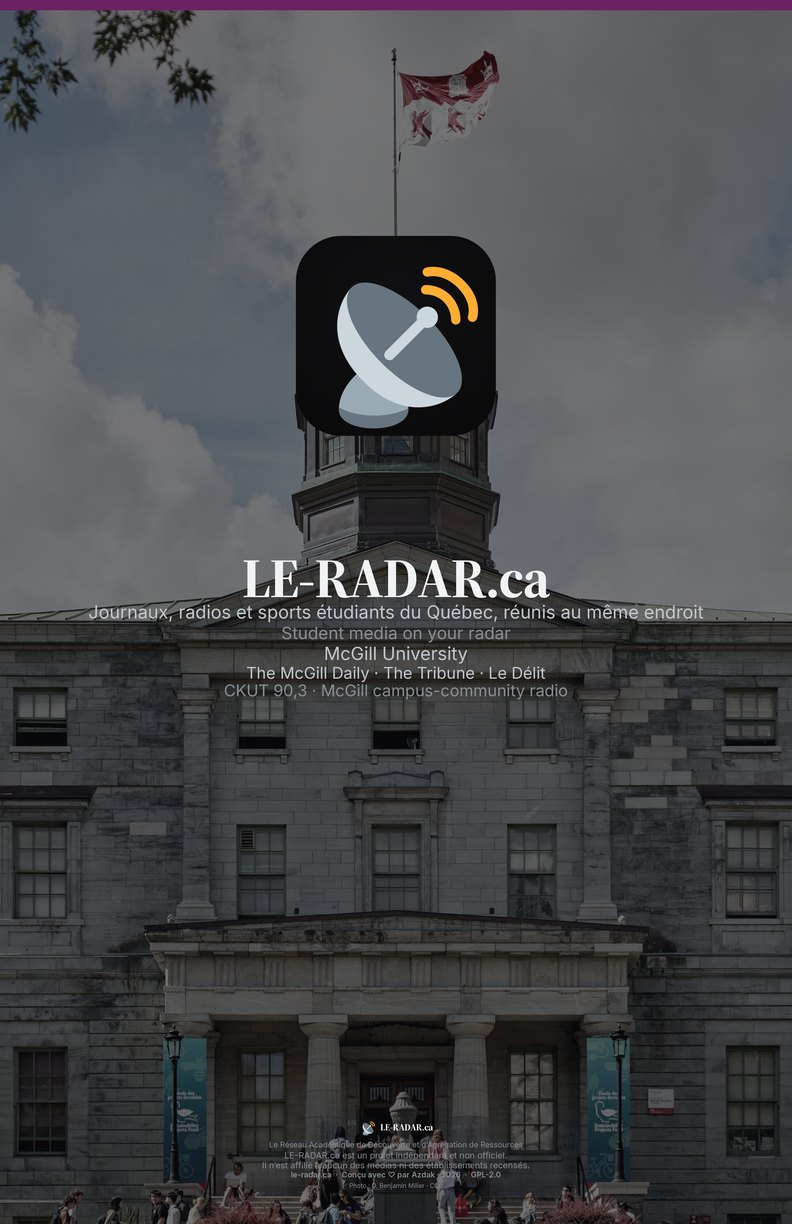
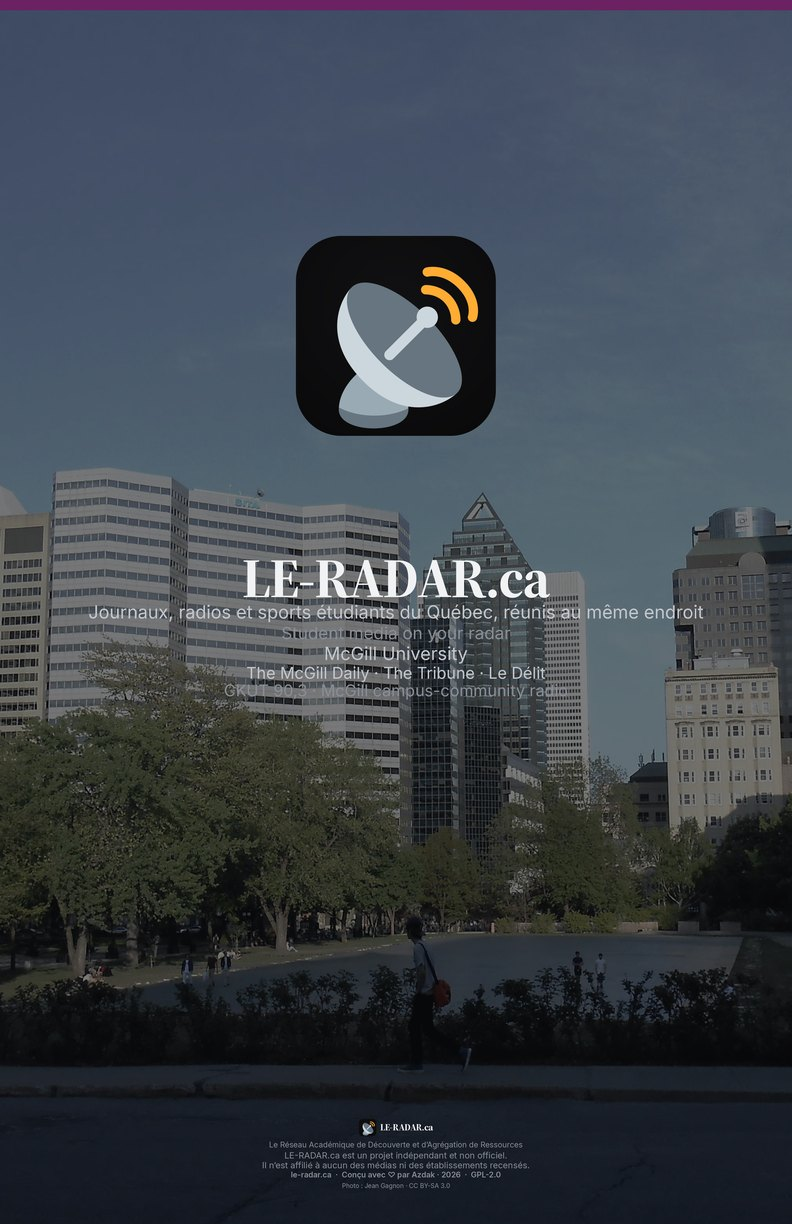
feat(kit): more iconic pavilion photos per university
Keep the existing posters. Add DKN, Roddick Gates, McGill downtown,
Gaudry façade, UQAM agora, SGW, Cabana, McGreer Hall and the Bishop’s
chapel.

diff --git a/dev/affiche-lab.html b/dev/affiche-lab.html
@@ -134,33 +134,42 @@
         { key: "nophoto", place: "Fond uni" },
         { key: "pouliot", place: "Adrien-Pouliot" },
         { key: "parc", place: "Campus central" },
+        { key: "dkn", place: "Charles-De Koninck" },
       ]},
       { slug: "mcgill", name: "McGill University", grounds: [
         { key: "nophoto", place: "Fond uni" },
         { key: "arts", place: "Arts Building" },
         { key: "pelouse", place: "Pelouse du campus" },
+        { key: "roddick", place: "Roddick Gates" },
+        { key: "downtown", place: "Campus downtown" },
       ]},
       { slug: "udem", name: "Université de Montréal", grounds: [
         { key: "nophoto", place: "Fond uni" },
         { key: "gaudry", place: "Roger-Gaudry" },
+        { key: "facade", place: "Façade Gaudry" },
       ]},
       { slug: "uqam", name: "Université du Québec à Montréal", grounds: [
         { key: "nophoto", place: "Fond uni" },
         { key: "jasmin", place: "Judith-Jasmin" },
+        { key: "agora", place: "Agora Judith-Jasmin" },
       ]},
       { slug: "concordia", name: "Concordia University", grounds: [
         { key: "nophoto", place: "Fond uni" },
         { key: "hall", place: "Henry F. Hall" },
         { key: "loyola", place: "Campus Loyola" },
+        { key: "sgw", place: "Sir George Williams" },
       ]},
       { slug: "sherbrooke", name: "Université de Sherbrooke", grounds: [
         { key: "nophoto", place: "Fond uni" },
         { key: "longueuil", place: "Longueuil" },
+        { key: "cabana", place: "Georges-Cabana" },
       ]},
       { slug: "bishops", name: "Bishop’s University", grounds: [
         { key: "nophoto", place: "Fond uni" },
         { key: "brick", place: "Bâtiment principal" },
         { key: "quad", place: "Campus Lennoxville" },
+        { key: "mcgreer", place: "McGreer Hall" },
+        { key: "chapelle", place: "Chapelle" },
       ]},
     ];
     const KIND_LABEL = { standard: "Standard", minimal: "Minimal", bilingue: "Bilingue" };

diff --git a/scripts/generate-campus-posters.py b/scripts/generate-campus-posters.py
@@ -82,6 +82,7 @@ CAMPUSES = [
             {"key": "nophoto", "photo_id": None, "label": "Fond uni"},
             {"key": "pouliot", "photo_id": "68ae0e12a3ec", "label": "Pavillon Adrien-Pouliot", "focal": (0.50, 0.40), "crop_scale": 0.90, "desaturate": 0.52, "overlay": 0.58},
             {"key": "parc", "photo_id": "0733bf6bce32", "label": "Campus central", "focal": (0.48, 0.45), "crop_scale": 0.88, "desaturate": 0.58, "overlay": 0.55},
+            {"key": "dkn", "photo_id": "e3a38d175a72", "label": "Pavillon Charles-De Koninck", "focal": (0.68, 0.36), "crop_scale": 0.85, "desaturate": 0.52, "overlay": 0.58},
         ],
     },
     {
@@ -95,6 +96,8 @@ CAMPUSES = [
             {"key": "nophoto", "photo_id": None, "label": "Fond uni"},
             {"key": "arts", "photo_id": "52c687b5d843", "label": "Arts Building", "focal": (0.50, 0.36), "crop_scale": 0.88, "desaturate": 0.50, "overlay": 0.58},
             {"key": "pelouse", "url": "https://upload.wikimedia.org/wikipedia/commons/d/dd/Lawn_-_McGill_University_-_Montreal%2C_Canada_-_DSC08283.jpg", "credit": "Daderot", "license": "CC0", "title": "McGill University lawn", "focal": (0.50, 0.58), "crop_scale": 0.92, "desaturate": 0.58, "overlay": 0.52},
+            {"key": "roddick", "url": "https://upload.wikimedia.org/wikipedia/commons/f/fe/Portail_Roddick_01.jpg", "credit": "Jean Gagnon", "license": "CC BY-SA 3.0", "title": "Portail Roddick", "focal": (0.50, 0.38), "crop_scale": 0.90, "desaturate": 0.55, "overlay": 0.55},
+            {"key": "downtown", "photo_id": "f2745be093ce", "label": "Campus downtown", "focal": (0.50, 0.42), "crop_scale": 0.90, "desaturate": 0.55, "overlay": 0.55},
         ],
     },
     {
@@ -106,6 +109,7 @@ CAMPUSES = [
         "grounds": [
             {"key": "nophoto", "photo_id": None, "label": "Fond uni"},
             {"key": "gaudry", "photo_id": "a7697051c0fc", "label": "Pavillon Roger-Gaudry", "focal": (0.50, 0.32), "crop_scale": 0.95, "desaturate": 0.55, "overlay": 0.52},
+            {"key": "facade", "url": "https://upload.wikimedia.org/wikipedia/commons/d/db/UdeM_Roger_Gaudry.jpg", "credit": "Armanidesu", "license": "CC BY-SA 4.0", "title": "Pavillon Roger-Gaudry, façade", "focal": (0.50, 0.38), "crop_scale": 0.92, "desaturate": 0.55, "overlay": 0.52},
         ],
     },
     {
@@ -117,6 +121,7 @@ CAMPUSES = [
         "grounds": [
             {"key": "nophoto", "photo_id": None, "label": "Fond uni"},
             {"key": "jasmin", "photo_id": "a5acbe3af178", "label": "Pavillon Judith-Jasmin", "focal": (0.48, 0.40), "crop_scale": 0.88, "desaturate": 0.52, "overlay": 0.58},
+            {"key": "agora", "photo_id": "017b41d9ba0d", "label": "Agora Judith-Jasmin", "focal": (0.50, 0.36), "crop_scale": 0.88, "desaturate": 0.52, "overlay": 0.58},
         ],
     },
     {
@@ -130,6 +135,7 @@ CAMPUSES = [
             {"key": "nophoto", "photo_id": None, "label": "Fond uni"},
             {"key": "hall", "photo_id": "582ef31c6453", "label": "Henry F. Hall Building", "focal": (0.52, 0.36), "crop_scale": 0.90, "desaturate": 0.48, "overlay": 0.60},
             {"key": "loyola", "url": "https://upload.wikimedia.org/wikipedia/commons/3/37/Loyola_College_Building_9.JPG", "credit": "Jean Gagnon", "license": "CC BY-SA 3.0", "title": "Loyola College Building", "focal": (0.50, 0.48), "crop_scale": 0.90, "desaturate": 0.55, "overlay": 0.55},
+            {"key": "sgw", "photo_id": "4242d9aea59f", "label": "Campus Sir George Williams", "focal": (0.50, 0.28), "crop_scale": 0.90, "desaturate": 0.48, "overlay": 0.60},
         ],
     },
     {
@@ -141,6 +147,7 @@ CAMPUSES = [
         "grounds": [
             {"key": "nophoto", "photo_id": None, "label": "Fond uni"},
             {"key": "longueuil", "photo_id": "912fa583aa5b", "label": "Campus de Longueuil", "focal": (0.42, 0.42), "crop_scale": 0.88, "desaturate": 0.50, "overlay": 0.58},
+            {"key": "cabana", "url": "https://upload.wikimedia.org/wikipedia/commons/7/72/Universit%C3%A9_de_Sherbrooke_-_Pavillon_Georges-Cabana.jpg", "credit": "Uncivil Fire", "license": "CC BY-SA 3.0", "title": "Pavillon Georges-Cabana", "focal": (0.50, 0.38), "crop_scale": 0.95, "desaturate": 0.52, "overlay": 0.58},
         ],
     },
     {
@@ -154,6 +161,8 @@ CAMPUSES = [
             {"key": "nophoto", "photo_id": None, "label": "Fond uni"},
             {"key": "brick", "photo_id": "186769a5aeb5", "label": "Bâtiment principal", "focal": (0.45, 0.42), "crop_scale": 0.92, "desaturate": 0.55, "overlay": 0.58},
             {"key": "quad", "photo_id": "ebea372c0dd2", "label": "Campus Lennoxville", "focal": (0.50, 0.45), "crop_scale": 0.90, "desaturate": 0.52, "overlay": 0.58},
+            {"key": "mcgreer", "url": "https://upload.wikimedia.org/wikipedia/commons/e/ea/Bishop%27s_University_McGreer_Hall.jpg", "credit": "Jason Paris", "license": "CC BY 2.0", "title": "McGreer Hall", "focal": (0.52, 0.40), "crop_scale": 0.90, "desaturate": 0.55, "overlay": 0.52},
+            {"key": "chapelle", "photo_id": "95c4ae37ec2f", "label": "Chapelle du campus", "focal": (0.42, 0.40), "crop_scale": 0.90, "desaturate": 0.55, "overlay": 0.55},
         ],
     },
 ]
